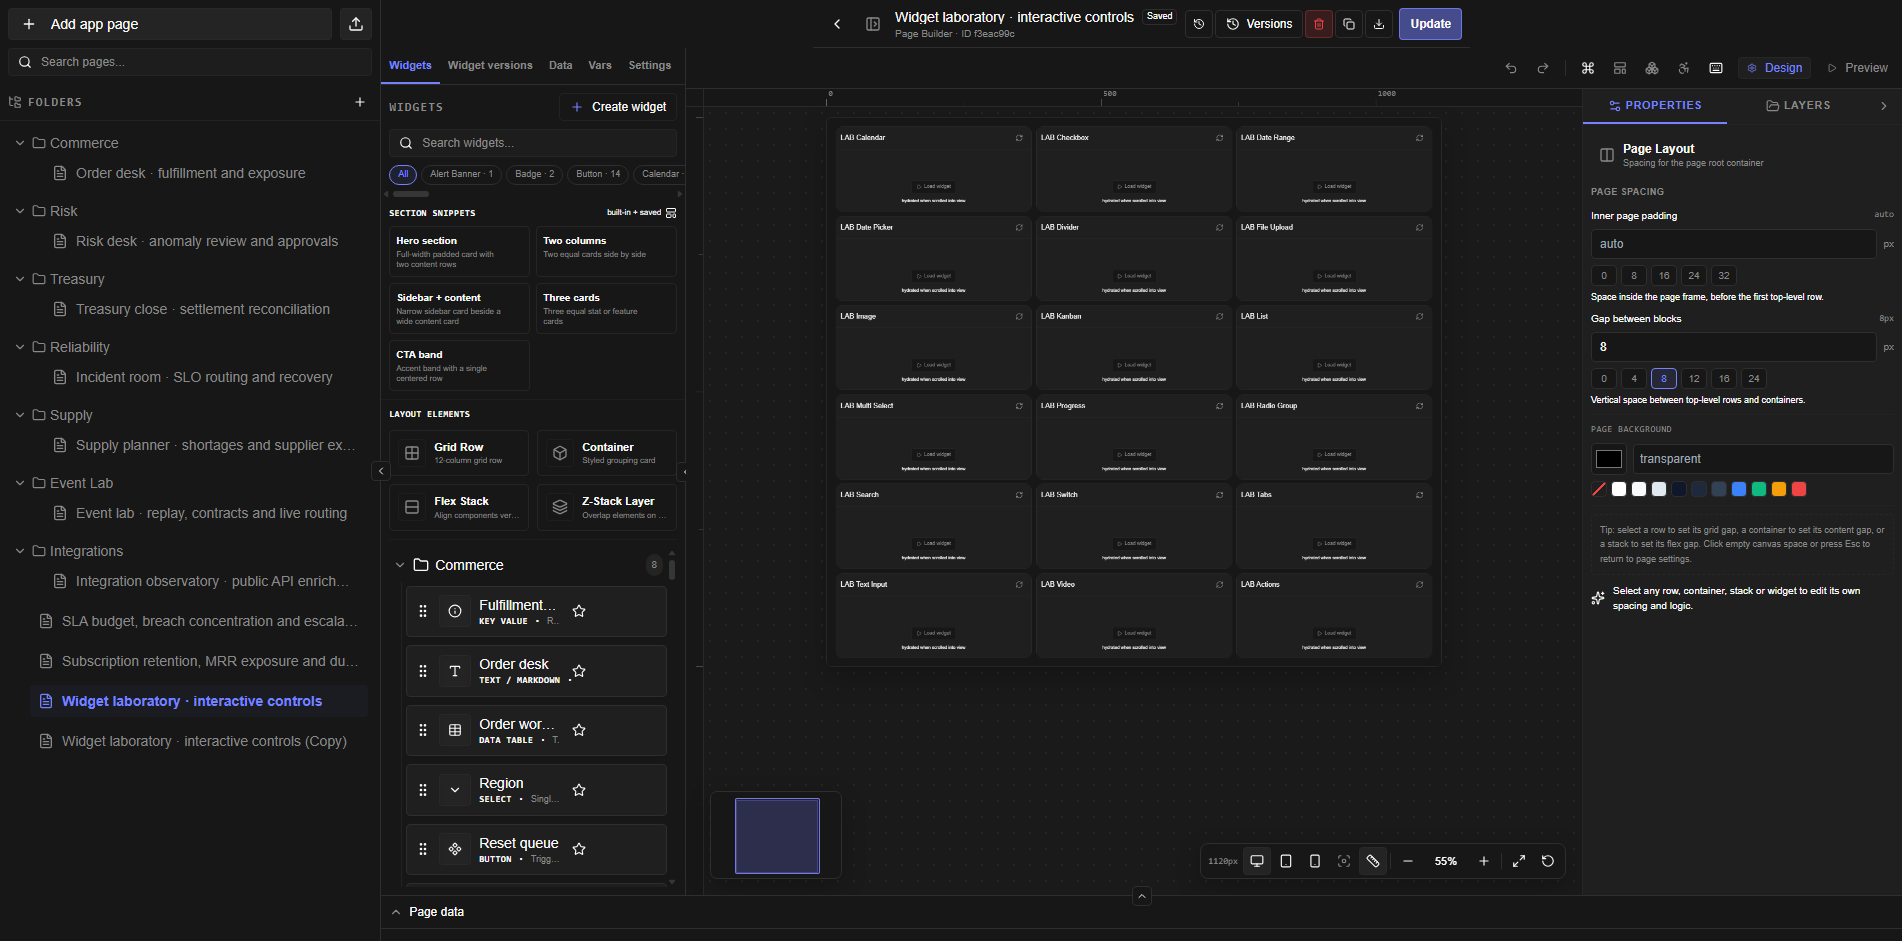
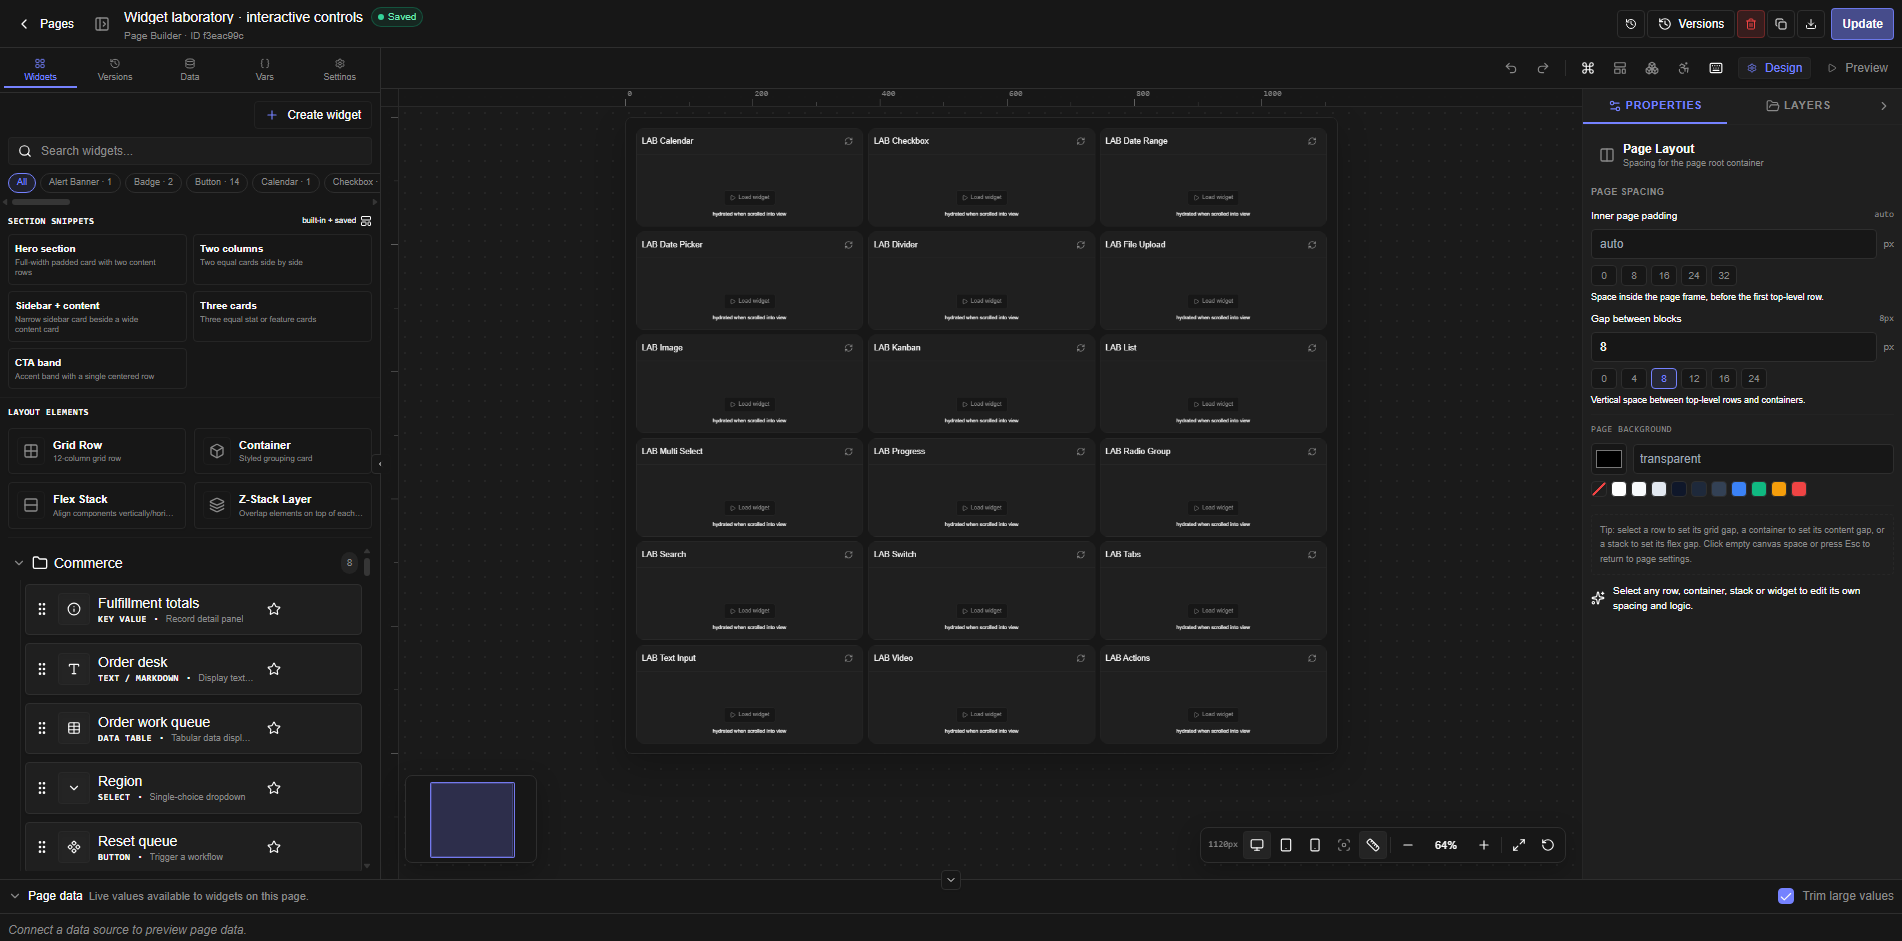
feat(editor): true focus mode, compact tabs, and polished editor chrome

diff --git a/apps/frontend/src/presentation/components/appPageComponents/forms/appPageUpdationForm.jsx b/apps/frontend/src/presentation/components/appPageComponents/forms/appPageUpdationForm.jsx
@@ -30,7 +30,7 @@ import { AppPageRuntimeProvider } from "../../../../logic/appPageRuntime/AppPage
 import { AppPageDataSourceBootstrapper } from "../editor/appPageDataSourceBootstrapper";
 import { AppPageWorkflowInputHost } from '../appPageWorkflowInputHost';
 
-import { Badge, Button } from "@jet-admin/ui";
+import { Button } from "@jet-admin/ui";
 import { BundleExportButton } from "../../bundleComponents/bundleExportButton";
 import { AssetVersionsButton } from "../../assetVersionComponents/assetVersionsButton";
 import { EditorTopBar } from "../../editorShell/editorTopBar";
@@ -64,7 +64,17 @@ export const AppPageUpdationForm = ({ tenantID, appPageID }) => {
   const navigate = useNavigate();
   const [focusMode, setFocusMode] = useEditorFocusMode();
   const consolePanelRef = useRef(null);
-  const [consoleCollapsed, setConsoleCollapsed] = useState(false);
+  const [consoleCollapsed, setConsoleCollapsed] = useState(true);
+  const toggleConsole = () => {
+    const nextCollapsed = !consoleCollapsed;
+    setConsoleCollapsed(nextCollapsed);
+    if (nextCollapsed) {
+      consolePanelRef.current?.collapse();
+    } else {
+      consolePanelRef.current?.expand();
+      consolePanelRef.current?.resize(18);
+    }
+  };
   const { showConfirmation } = useGlobalUI();
   const [searchParams] = useSearchParams();
   const linkedApplicationID = searchParams.get("applicationId");
@@ -265,18 +275,21 @@ export const AppPageUpdationForm = ({ tenantID, appPageID }) => {
         title={appPageUpdationForm.values.appPageTitle || appPage?.appPageTitle || "App page"}
         subtitle={`Page Builder · ID ${String(appPageID).slice(0, 8)}`}
         badge={
-          <Badge
-            variant={historyIndex > 0 ? "outline" : "secondary"}
-            className="h-4 px-1 text-[9px]"
+          <span
+            className={`inline-flex h-5 items-center gap-1 rounded-full border px-1.5 text-[10px] font-medium ${
+              historyIndex > 0
+                ? "border-amber-500/40 bg-amber-500/10 text-amber-300"
+                : "border-emerald-500/30 bg-emerald-500/10 text-emerald-300"
+            }`}
             title="Saving this page updates the working page and its editor history only. Deployed Applications keep their captured page and data-source versions until you publish a new release."
           >
-            {historyIndex > 0
-              ? `${historyIndex} unsaved change${historyIndex > 1 ? "s" : ""}`
-              : "Saved"}
-          </Badge>
+            <span className={`h-1.5 w-1.5 rounded-full ${historyIndex > 0 ? "bg-amber-400" : "bg-emerald-400"}`} />
+            {historyIndex > 0 ? `${historyIndex} unsaved` : "Saved"}
+          </span>
         }
         onBack={() => navigate(CONSTANTS.ROUTES.VIEW_APP_PAGES.path(tenantID))}
         backLabel="Back to App Pages"
+        backText="Pages"
         focusMode={focusMode}
         onToggleFocus={() => setFocusMode((value) => !value)}
         actions={
@@ -408,20 +421,16 @@ export const AppPageUpdationForm = ({ tenantID, appPageID }) => {
               <ResizablePanel
                 ref={consolePanelRef}
                 id={CONSTANTS.RESIZABLE_PANEL_IDS.APP_PAGE_UPDATE_CONSOLE_PANEL}
-                defaultSize={18}
-                minSize={10}
-                collapsedSize={5}
+                defaultSize={6}
+                minSize={6}
+                collapsedSize={6}
                 onCollapse={() => setConsoleCollapsed(true)}
                 onExpand={() => setConsoleCollapsed(false)}
                 className="overflow-hidden min-h-[40px] flex flex-col"
               >
                 <AppPageConsole
                   isCollapsed={consoleCollapsed}
-                  onToggleCollapse={() =>
-                    consolePanelRef.current?.[
-                      consoleCollapsed ? "expand" : "collapse"
-                    ]?.()
-                  }
+                  onToggleCollapse={toggleConsole}
                 />
               </ResizablePanel>
             </ResizablePanelGroup>

diff --git a/apps/frontend/src/presentation/components/appPageComponents/editor/appPageEditor.jsx b/apps/frontend/src/presentation/components/appPageComponents/editor/appPageEditor.jsx
@@ -2,6 +2,7 @@ import { CONSTANTS } from "../../../../constants";
 import React from "react";
 import PropTypes from "prop-types";
 import { Input, Label, Tabs, TabsContent, TabsList, TabsTrigger } from "@jet-admin/ui";
+import { Braces, Database, History, LayoutGrid, Settings } from "lucide-react";
 import { AppPageWidgetList } from "./appPageWidgetList";
 import { AppPageWidgetVersionsEditor } from "./appPageWidgetVersionsEditor";
 import { AppPageDataSourcesEditor } from "./appPageDataSourcesEditor";
@@ -64,12 +65,27 @@ export const AppPageEditor = ({
   return (
     <div className="flex h-full w-full flex-col overflow-hidden bg-background">
       <Tabs defaultValue="widgets" className="flex flex-col h-full w-full">
-        <TabsList className="w-full justify-start overflow-x-auto">
-          <TabsTrigger value="widgets" className="shrink-0 text-[11px] font-semibold p-2">Widgets</TabsTrigger>
-          <TabsTrigger value="widget-versions" className="shrink-0 text-[11px] font-semibold p-2">Widget versions</TabsTrigger>
-          <TabsTrigger value="datasources" className="shrink-0 text-[11px] font-semibold p-2">Data</TabsTrigger>
-          <TabsTrigger value="variables" className="shrink-0 text-[11px] font-semibold p-2">Vars</TabsTrigger>
-          <TabsTrigger value="settings" className="shrink-0 text-[11px] font-semibold p-2">Settings</TabsTrigger>
+        <TabsList className="grid h-auto w-full grid-cols-5 gap-0.5 p-1">
+          <TabsTrigger value="widgets" className="flex min-w-0 flex-col gap-1 px-0.5 py-1.5 text-[9px] font-medium leading-none" title="Widgets">
+            <LayoutGrid className="h-3.5 w-3.5" />
+            <span className="w-full truncate text-center">Widgets</span>
+          </TabsTrigger>
+          <TabsTrigger value="widget-versions" className="flex min-w-0 flex-col gap-1 px-0.5 py-1.5 text-[9px] font-medium leading-none" title="Widget versions">
+            <History className="h-3.5 w-3.5" />
+            <span className="w-full truncate text-center">Versions</span>
+          </TabsTrigger>
+          <TabsTrigger value="datasources" className="flex min-w-0 flex-col gap-1 px-0.5 py-1.5 text-[9px] font-medium leading-none" title="Data sources">
+            <Database className="h-3.5 w-3.5" />
+            <span className="w-full truncate text-center">Data</span>
+          </TabsTrigger>
+          <TabsTrigger value="variables" className="flex min-w-0 flex-col gap-1 px-0.5 py-1.5 text-[9px] font-medium leading-none" title="Page variables">
+            <Braces className="h-3.5 w-3.5" />
+            <span className="w-full truncate text-center">Vars</span>
+          </TabsTrigger>
+          <TabsTrigger value="settings" className="flex min-w-0 flex-col gap-1 px-0.5 py-1.5 text-[9px] font-medium leading-none" title="Page settings">
+            <Settings className="h-3.5 w-3.5" />
+            <span className="w-full truncate text-center">Settings</span>
+          </TabsTrigger>
         </TabsList>
 
         <TabsContent value="widgets" className="flex-1 min-h-0 m-0 data-[state=active]:flex data-[state=active]:flex-col data-[state=inactive]:hidden overflow-hidden">

diff --git a/apps/frontend/src/presentation/pages/applicationStudioPage.jsx b/apps/frontend/src/presentation/pages/applicationStudioPage.jsx
@@ -465,6 +465,7 @@ function ApplicationStudioSession() {
           subtitle="Unable to load this application"
           onBack={() => navigate(CONSTANTS.ROUTES.VIEW_APPLICATIONS.path(tenantID))}
           backLabel="Back to Applications"
+          backText="Apps"
           focusMode={focusMode}
           onToggleFocus={() => setFocusMode((value) => !value)}
           actions={
@@ -496,8 +497,8 @@ function ApplicationStudioSession() {
         subtitle={`Application Studio | Draft revision ${app.draft.revision}${dirty ? " | Unsaved changes" : ""}`}
         badge={
           <Badge
-            variant={archived ? "secondary" : "outline"}
-            className="h-4 px-1 text-[9px]"
+            variant={archived ? "secondary" : dirty ? "secondary" : "outline"}
+            className={`h-5 px-1.5 text-[10px] ${dirty && !archived ? "border-amber-500/40 bg-amber-500/10 text-amber-300" : ""}`}
             title="Draft changes do not affect deployed releases until you publish and deploy a new release."
           >
             {archived ? "Archived" : dirty ? "Unsaved" : "Draft"}
@@ -505,6 +506,7 @@ function ApplicationStudioSession() {
         }
         onBack={() => navigate(CONSTANTS.ROUTES.VIEW_APPLICATIONS.path(tenantID))}
         backLabel="Back to Applications"
+        backText="Apps"
         focusMode={focusMode}
         onToggleFocus={() => setFocusMode((value) => !value)}
         actions={
@@ -581,11 +583,12 @@ function ApplicationStudioSession() {
               >
                 <div className="h-full overflow-y-auto pr-1">
         <div className="space-y-2">
-          <Callout icon={Info}>
-            Composition preview does not execute data sources. Publishing captures
-            changed page and dependency versions and deploys a thin release to production;
-            queries and workflows execute as configured, and buffered listeners can be
-            observed. Referenced pages stay shared; managed copies isolate page edits.
+          <Callout
+            icon={Info}
+            className="p-2 text-[10px] leading-snug"
+            title="Composition preview does not execute data sources. Publishing captures changed page and dependency versions; queries and workflows execute as configured; buffered listeners can be observed. Referenced pages stay shared; managed copies isolate page edits."
+          >
+            Preview is layout-only. Publishing captures page versions; queries and workflows run at runtime.
           </Callout>
           <ApplicationFeedback
             error={

diff --git a/apps/frontend/src/presentation/components/editorShell/editorTopBar.jsx b/apps/frontend/src/presentation/components/editorShell/editorTopBar.jsx
@@ -16,6 +16,7 @@ export const EditorTopBar = ({
   badge,
   onBack,
   backLabel = "Back",
+  backText,
   focusMode = false,
   onToggleFocus,
   actions,
@@ -23,7 +24,7 @@ export const EditorTopBar = ({
 }) => (
   <div
     className={cn(
-      "editor-top-bar flex h-12 shrink-0 items-center justify-between gap-2 border-b border-border bg-background px-2",
+      "editor-top-bar flex w-full h-12 shrink-0 items-center justify-between gap-2 border-b border-border bg-background px-2",
       className
     )}
   >
@@ -32,13 +33,14 @@ export const EditorTopBar = ({
         <Button
           type="button"
           variant="ghost"
-          size="icon"
-          className="h-8 w-8 shrink-0"
+          size={backText ? "sm" : "icon"}
+          className={cn("h-8 shrink-0 gap-1", backText ? "px-2" : "w-8")}
           onClick={onBack}
           aria-label={backLabel}
           title={backLabel}
         >
           <ChevronLeft className="h-4 w-4" />
+          {backText && <span className="ml-1 hidden text-xs sm:inline">{backText}</span>}
         </Button>
       )}
 
@@ -91,6 +93,7 @@ EditorTopBar.propTypes = {
   badge: PropTypes.node,
   onBack: PropTypes.func,
   backLabel: PropTypes.string,
+  backText: PropTypes.string,
   focusMode: PropTypes.bool,
   onToggleFocus: PropTypes.func,
   actions: PropTypes.node,

diff --git a/apps/frontend/src/presentation/components/layouts/appPageLayout.jsx b/apps/frontend/src/presentation/components/layouts/appPageLayout.jsx
@@ -18,11 +18,11 @@ export const AppPageLayout = () => {
         }
         className="h-full w-full"
       >
-        <ResizablePanel defaultSize={20} className="max-md:hidden">
+        <ResizablePanel defaultSize={20} className="max-md:hidden app-page-navigation">
           <AppPageDrawerList />
         </ResizablePanel>
-        <ResizableHandle withHandle={true} className="max-md:hidden" />
-        <ResizablePanel defaultSize={80} className="overflow-hidden bg-background">
+        <ResizableHandle withHandle={true} className="max-md:hidden app-page-navigation-handle" />
+        <ResizablePanel defaultSize={80} className="app-page-content overflow-hidden bg-background">
           <Outlet />
         </ResizablePanel>
       </ResizablePanelGroup>

diff --git a/apps/frontend/src/index.css b/apps/frontend/src/index.css
@@ -676,11 +676,17 @@ button {
    ------------------------------------------------------------------------- */
 html.editor-focus .global-nav,
 html.editor-focus .main-navigation,
-html.editor-focus .main-navigation-handle {
+html.editor-focus .main-navigation-handle,
+html.editor-focus .app-page-navigation,
+html.editor-focus .app-page-navigation-handle,
+html.editor-focus .application-navigation,
+html.editor-focus .application-navigation-handle {
   display: none !important;
 }
 
-html.editor-focus .main-content-panel {
+html.editor-focus .main-content-panel,
+html.editor-focus .app-page-content,
+html.editor-focus .application-content {
   flex: 1 1 100% !important;
   max-width: 100% !important;
 }

diff --git a/apps/frontend/src/presentation/components/layouts/applicationLayout.jsx b/apps/frontend/src/presentation/components/layouts/applicationLayout.jsx
@@ -18,8 +18,8 @@ export const ApplicationLayout = () => (
       <ResizablePanel defaultSize={20} minSize={14} maxSize={32} className="max-md:hidden">
         <ApplicationDrawerList />
       </ResizablePanel>
-      <ResizableHandle withHandle className="max-md:hidden" />
-      <ResizablePanel defaultSize={80} className="overflow-hidden bg-background">
+      <ResizableHandle withHandle className="max-md:hidden application-navigation-handle" />
+      <ResizablePanel defaultSize={80} className="application-content overflow-hidden bg-background">
         <Outlet />
       </ResizablePanel>
     </ResizablePanelGroup>

diff --git a/apps/frontend/src/presentation/components/appPageComponents/editor/appPageWidgetList.jsx b/apps/frontend/src/presentation/components/appPageComponents/editor/appPageWidgetList.jsx
@@ -350,10 +350,7 @@ export const AppPageWidgetList = ({
 
   return (
     <div className="flex min-h-0 flex-1 flex-col gap-2 bg-background overflow-hidden">
-      <div className="flex items-center justify-between p-2 pb-0">
-        <span className="font-mono text-xs font-semibold uppercase tracking-widest text-muted-foreground">
-          {CONSTANTS.STRINGS.APP_PAGE_WIDGET_LIST_WIDGETS_TITLE}
-        </span>
+      <div className="flex items-center justify-end p-2 pb-0">
         <Button
           type="button"
           variant="outline"

diff --git a/docs/docs/app-pages-widgets/app-pages-widgets.md b/docs/docs/app-pages-widgets/app-pages-widgets.md
@@ -113,7 +113,7 @@ flowchart LR
 
 ![App Page editor with the widget palette, canvas, and properties panel](/img/screenshots/app-page-builder.png)
 
-The Page Builder uses a compact **48px editor top bar**: page name, save state, versions, duplicate/export/delete, design/preview toggle, and the primary **Update** action. Focus mode hides the global navigation and tenant drawer so the canvas gets the full viewport; the focus control in the top bar restores them, and the preference is remembered. The **Page data** console collapses to a status strip and expands on demand.
+The Page Builder uses a compact **48px editor top bar**: page name, save state, versions, duplicate/export/delete, design/preview toggle, and the primary **Update** action. Focus mode hides the global navigation, tenant drawer, and page list so the canvas gets the full viewport; the focus control in the top bar restores them, and the preference is remembered. The **Page data** console collapses to a status strip and expands on demand.
 
 A user opens the App Page editor, which presents a split-panel interface: a left sidebar (Widgets tab, Data tab, Variables tab, Settings tab) and a right canvas (the layout editor).
 

diff --git a/docs/docs/applications/applications.md b/docs/docs/applications/applications.md
@@ -49,7 +49,7 @@ The runtime is deliberately thin. A release stores pointers to immutable page ve
 
 Open **Applications** in the sidebar, then choose an application or click **New application**. Creating one asks for a name and a lowercase slug (`orders-and-approvals`). The new application receives an empty draft definition and creator access.
 
-The Studio uses the same compact **48px editor top bar** as the Page Builder. Focus mode hides the global navigation and tenant drawer, and the preference is remembered. **Preview** and **Archive** live in the top bar and collapse into the overflow on narrow screens, leaving **Save draft** as the primary action. The `definition.json` footer starts smaller and can be resized.
+The Studio uses the same compact **48px editor top bar** as the Page Builder. Focus mode hides the global navigation, tenant drawer, and application list, and the preference is remembered. **Preview** and **Archive** live in the top bar and collapse into the overflow on narrow screens, leaving **Save draft** as the primary action. The `definition.json` footer starts smaller and can be resized.
 
 The Studio is a resizable three-pane workspace:
 
